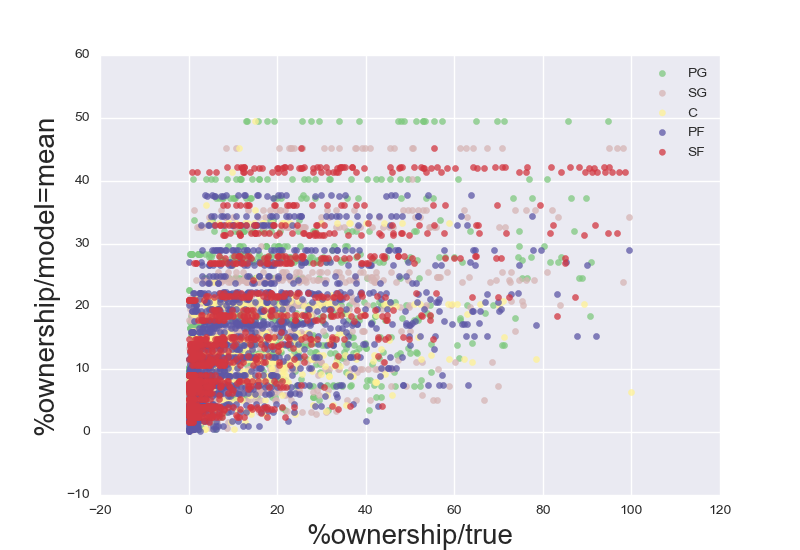
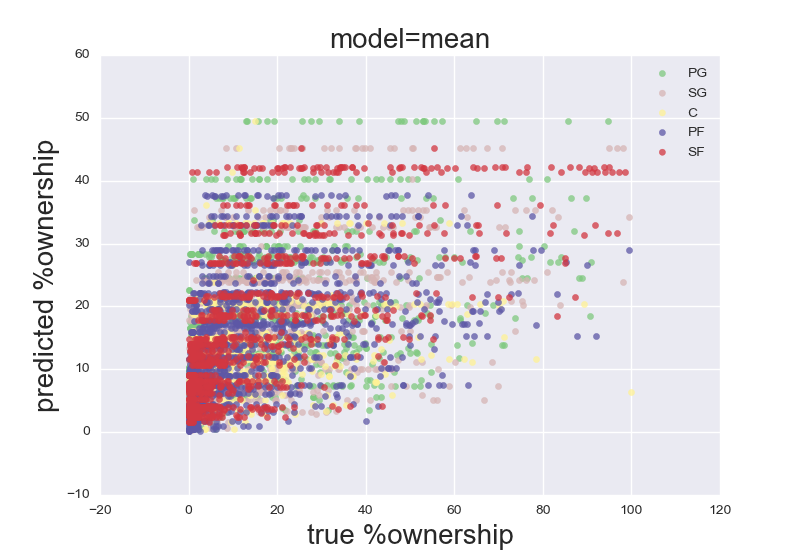
minor mods

Changed region(s): [[0.0312, 0.2164, 0.0938, 0.8036], [0.375, 0.9582, 0.6562, 1.0], [0.4062, 0.0618, 0.625, 0.0927]]

diff --git a/ANALYSIS/SLATES/slates.py b/ANALYSIS/SLATES/slates.py
@@ -72,11 +72,13 @@ def plot_model(df=None,model=None,ttype=None):
 	cmap = plt.cm.Accent
 	for i,X in enumerate(posl): 
 		plt.scatter(df.loc[df.position==X].true.values.tolist(),
-				df.loc[df.position==X][model].values.tolist(),color=cmap(i / float(len(posl))    ),label=posl[i] ,alpha=0.75)
+				df.loc[df.position==X][model].values.tolist(),
+				color=cmap(i / float(len(posl))    ),label=posl[i] ,alpha=0.75)
 	plt.legend()
 	mod_dict = {'RandomForestRegressor':'rfr','Lasso':'Lasso','Ridge':'ridge','GradientBoostingRegressor':'gbr','mean':'mean'}
-	plt.ylabel('%ownership/model='+mod_dict[model],size=20)
-	plt.xlabel('%ownership/true',size=20)
+	plt.title('model='+model,size=20)
+	plt.ylabel('predicted %ownership',size=20)
+	plt.xlabel('true %ownership',size=20)
 	plt.savefig('jan.'+model+'.'+ttype+'.png')
 	plt.clf()
 
@@ -132,8 +134,11 @@ def plot_exp_pts(df=None,ttype=None,model=None):
 	plt.plot(plX,plY)
 	
 
-	plt.xlabel('<contest score> /true' ,size = 20)
-	plt.ylabel('<contest score> /model= '+mod_dict[model]+' ;"R**2='+ str(round(r_value**2,2)), size=20)
+	#plt.title(mod_dict[model]+';"R**2='+ str(round(r_value**2,2)),size=20)
+	plt.title(mod_dict[model],size=20)
+
+	plt.xlabel('true       < contest score > ', size = 20)
+	plt.ylabel('predicted  < contest score > ', size=20)
 	plt.legend()
 	plt.savefig('field.'+model+'.'+ttype+'.png')
 	plt.clf()
@@ -162,12 +167,11 @@ if __name__ == '__main__':
 	modell=['RandomForestRegressor','GradientBoostingRegressor','Ridge','Lasso','mean']
 	for model in modell:
 		plot_model(df=df,model=model,ttype=ttype)
-	sys.exit()
 
-	if redo_rmsd_by_pos:
-		do_build_contest_rmsd_by_pos(df=df,do_norm=do_norm)
-	else:
-		posdf = load_contest_rmsd_by_pos(do_norm=do_norm)
+#	if redo_rmsd_by_pos:
+#		do_build_contest_rmsd_by_pos(df=df,do_norm=do_norm)
+#	else:
+#		posdf = load_contest_rmsd_by_pos(do_norm=do_norm)
 
 	for X in modell:
 		plot_exp_pts(df=df,ttype=ttype,model=X)
